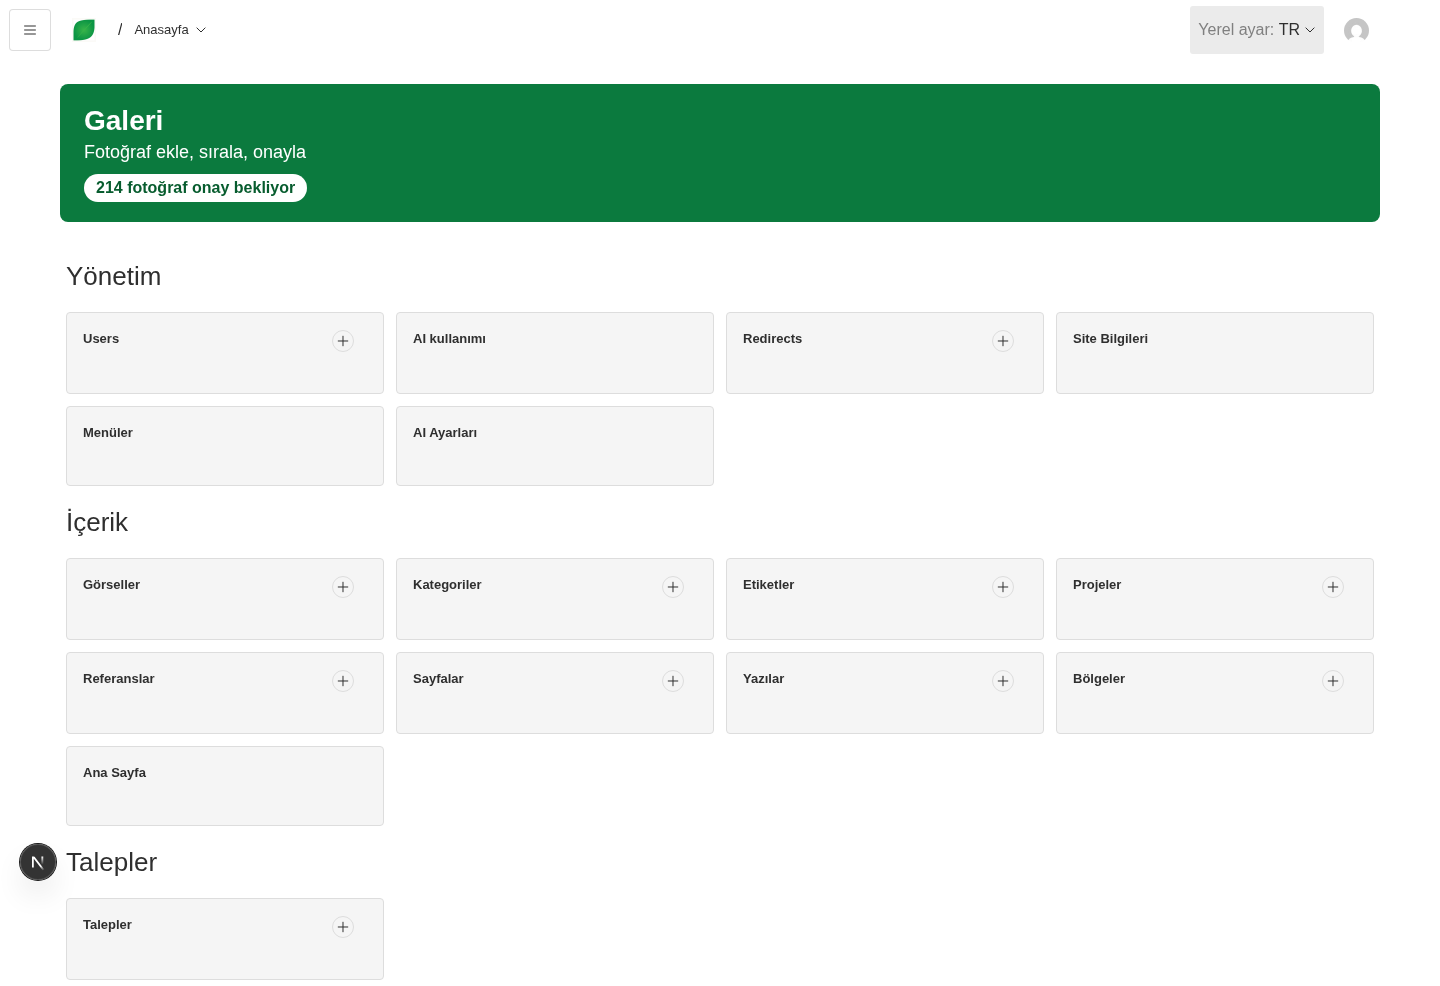
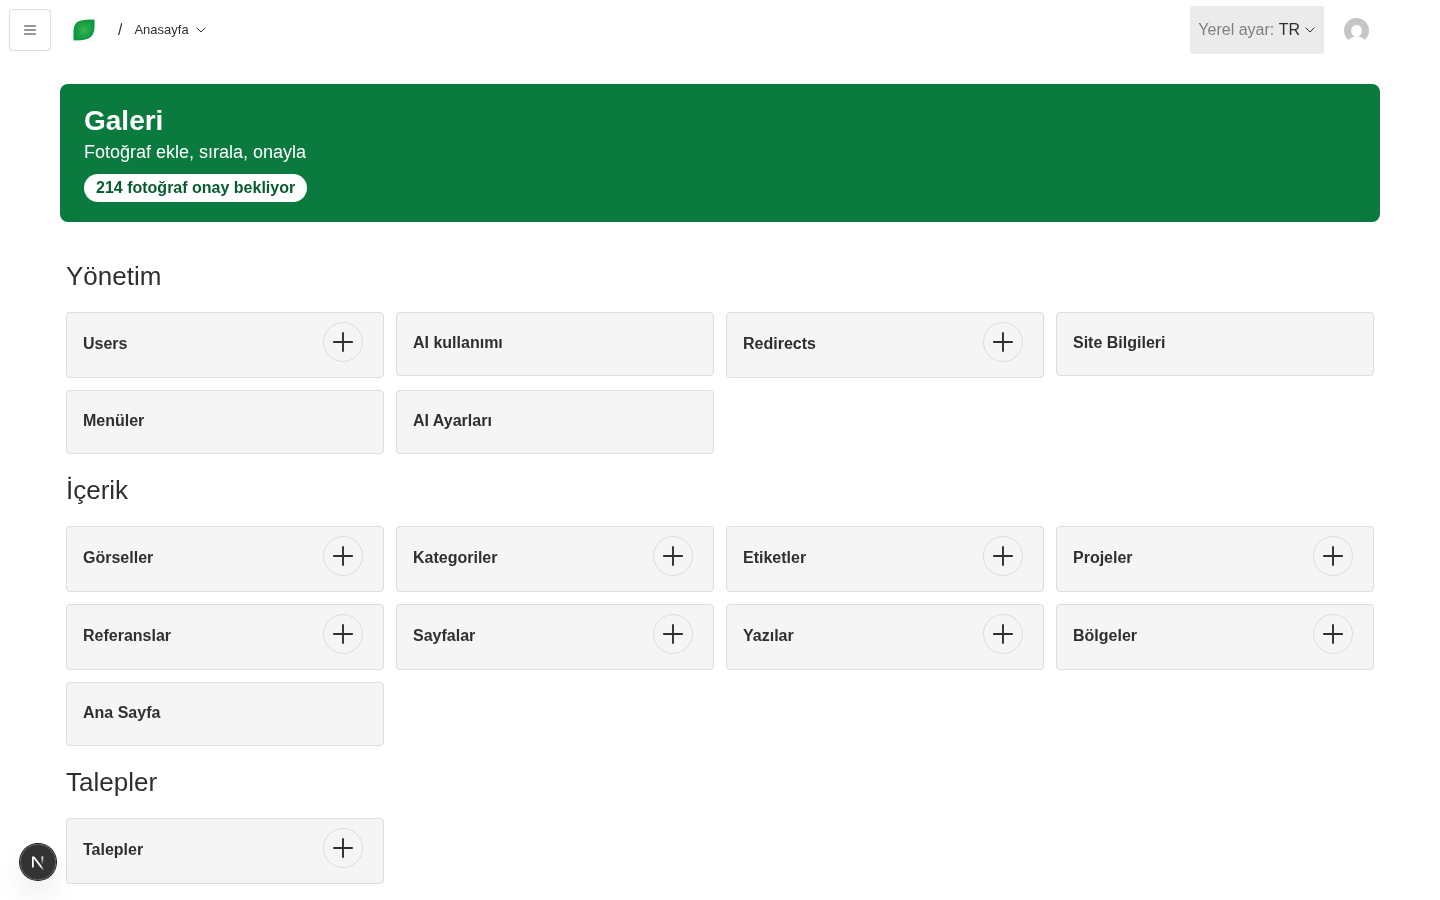
fix(admin): review fixes for Galeri reorder, dashboard cards, e2e (#157)
- move(): refresh order keys before the next move is allowed (sync ref guard),
  ignore a refresh for a category left meanwhile, keep the optimistic list if
  the refresh fails. "En sona" is off when the list is truncated.
- Dashboard cards: compact 64px rows, whole card is the link, 40px + icon in
  a 48px target.
- e2e: three photos with En başa / En sona and two fast ↓ taps checked
  against the saved order; editors don't see media/category cards; polled
  measurements; cleanup never deletes with an undefined category.

diff --git a/tests/e2e/admin-galeri.e2e.spec.ts b/tests/e2e/admin-galeri.e2e.spec.ts
@@ -7,7 +7,7 @@ import { login } from '../helpers/login'
 
 // #26: upload through the Galeri view, reorder with ↑, approve after adding Turkish alt text.
 // #157: "En sona al" in the Sırala list; Galeri opens on "Onay bekliyor" and an approved card stays in view.
-test('Galeri: upload two photos, move the second up, approve with alt text', async ({ browser }) => {
+test('Galeri: upload three photos, reorder (↑, En başa, En sona, fast ↓↓), approve with alt text', async ({ browser }) => {
   test.setTimeout(180_000)
   const payload = await getPayload({ config })
   const run = Date.now()
@@ -25,35 +25,55 @@ test('Galeri: upload two photos, move the second up, approve with alt text', asy
     await page.getByLabel('Kategori').selectOption({ label: `E2E Galeri ${run}` })
     await expect(page.getByText('Bu kategoride henüz fotoğraf yok.')).toBeVisible()
 
+    const [a, b, c] = ['birinci', 'ikinci', 'ucuncu'].map((n) => `${n}-${run}.webp`) as [string, string, string]
     await page.locator('input[type="file"]').setInputFiles([
       { name: `birinci-${run}.jpg`, mimeType: 'image/jpeg', buffer: await photo(160, 110, 60) },
       { name: `ikinci-${run}.jpg`, mimeType: 'image/jpeg', buffer: await photo(60, 110, 160) },
+      { name: `ucuncu-${run}.jpg`, mimeType: 'image/jpeg', buffer: await photo(60, 160, 110) },
     ])
-    await expect(page.getByText('2 fotoğraf yüklendi.')).toBeVisible({ timeout: 60_000 })
+    await expect(page.getByText('3 fotoğraf yüklendi.')).toBeVisible({ timeout: 90_000 })
     await expect(page.getByRole('button', { name: 'Onay bekleyenleri göster' })).toBeVisible()
 
     const names = page.locator('.galeri__card .galeri__name')
-    await expect(names).toHaveText([`birinci-${run}.webp`, `ikinci-${run}.webp`])
+    await expect(names).toHaveText([a, b, c])
     await expect(page.locator('.galeri__badge').first()).toHaveText('AI hazırlıyor…')
 
     const reordered = page.waitForResponse((r) => r.url().endsWith('/api/reorder') && r.ok())
-    await page.getByRole('button', { name: `ikinci-${run}.webp: yukarı taşı` }).click()
+    await page.getByRole('button', { name: `${b}: yukarı taşı` }).click()
     await reordered
-    await expect(names).toHaveText([`ikinci-${run}.webp`, `birinci-${run}.webp`])
+    await expect(names).toHaveText([b, a, c])
 
     // The order is persisted, and the category choice is remembered across reloads.
     await page.reload()
-    await expect(names).toHaveText([`ikinci-${run}.webp`, `birinci-${run}.webp`], { timeout: 30_000 })
-    await expect(page.getByRole('button', { name: 'Onay bekliyor 2' })).toHaveAttribute('aria-pressed', 'true')
+    await expect(names).toHaveText([b, a, c], { timeout: 30_000 })
+    await expect(page.getByRole('button', { name: 'Onay bekliyor 3' })).toHaveAttribute('aria-pressed', 'true')
 
-    await page.getByRole('button', { name: 'Tümü 2' }).click()
+    // Sırala: jump to the start and to the end. A move counts as done once its refresh is in (buttons enabled again).
+    const rows = page.locator('.galeri__row .galeri__name')
+    const settled = () => expect(page.locator('.galeri__row button[aria-disabled="true"]')).toHaveCount(4)
+    await page.getByRole('button', { name: 'Tümü 3' }).click()
     await page.getByRole('button', { name: 'Sırala', exact: true }).click()
-    const moved = page.waitForResponse((r) => r.url().endsWith('/api/reorder') && r.ok())
-    await page.getByRole('button', { name: `En sona al: ikinci-${run}.webp` }).click()
-    await moved
-    await expect(page.locator('.galeri__row .galeri__name')).toHaveText([`1. birinci-${run}.webp`, `2. ikinci-${run}.webp`])
+    await page.getByRole('button', { name: `En başa al: ${c}` }).click()
+    await expect(rows).toHaveText([`1. ${c}`, `2. ${b}`, `3. ${a}`])
+    await settled()
+    await page.getByRole('button', { name: `En sona al: ${c}` }).click()
+    await expect(rows).toHaveText([`1. ${b}`, `2. ${a}`, `3. ${c}`])
+    await settled()
+
+    // Two fast "↓" taps: the second lands while the first is saving (force skips Playwright's wait for enabled).
+    // Whatever the screen settles on must be what was saved.
+    const down = page.getByRole('button', { name: `${b}: aşağı taşı` })
+    await down.click()
+    await down.click({ force: true })
+    await settled()
+    const shown = await rows.allInnerTexts()
+    expect(shown).not.toEqual([`1. ${b}`, `2. ${a}`, `3. ${c}`])
+    await page.reload()
+    await page.getByRole('button', { name: 'Tümü 3' }).click()
+    await page.getByRole('button', { name: 'Sırala', exact: true }).click()
+    await expect(rows).toHaveText(shown)
     await page.getByRole('button', { name: 'Bitti' }).click()
-    await page.getByRole('button', { name: 'Onay bekliyor 2' }).click()
+    await page.getByRole('button', { name: 'Onay bekliyor 3' }).click()
 
     const first = page.locator('.galeri__card').first()
     await first.getByRole('button', { name: 'Onayla' }).click()
@@ -62,7 +82,7 @@ test('Galeri: upload two photos, move the second up, approve with alt text', asy
     await first.getByRole('button', { name: 'Kaydet ve onayla' }).click()
     await expect(first.locator('.galeri__badge')).toHaveText('Yayında')
     await expect(first.locator('.galeri__alt')).toHaveText('Mavi tonlarda ahşap deck örneği')
-    await expect(page.getByRole('button', { name: 'Onay bekliyor 1' })).toBeVisible()
+    await expect(page.getByRole('button', { name: 'Onay bekliyor 2' })).toBeVisible()
     // Docs screenshot only on demand (UPDATE_SCREENSHOTS=1) to avoid churn in normal runs.
     if (process.env.UPDATE_SCREENSHOTS) await page.screenshot({ path: 'docs/screens/admin-galeri-mobile.png', fullPage: true })
   } finally {

diff --git a/src/components/admin/GaleriClient.tsx b/src/components/admin/GaleriClient.tsx
@@ -87,6 +87,8 @@ export function GaleriClient({ categories, projects }: { categories: Option[]; p
   const [cardError, setCardError] = useState<Record<number, string>>({})
   const [busy, setBusy] = useState<number | null>(null)
   const [moving, setMoving] = useState(false)
+  // Read synchronously: a second tap can land before React re-renders with `moving` set.
+  const movingRef = useRef(false)
   const [filter, setFilter] = useState<StatusFilter>('all')
   // Photos changed under the current filter stay in view until the filter changes (no card vanishes on "Onayla").
   const [kept, setKept] = useState<ReadonlySet<number>>(new Set())
@@ -213,9 +215,10 @@ export function GaleriClient({ categories, projects }: { categories: Option[]; p
 
   async function move(from: number, to: number) {
     const r = reorder(items, from, to)
-    if (!r || moving || !category) return
+    if (!r || movingRef.current || !category) return
     const before = items
     setItems(r.next)
+    movingRef.current = true
     setMoving(true)
     const fail = (message: string) => {
       setItems(before)
@@ -244,12 +247,22 @@ export function GaleriClient({ categories, projects }: { categories: Option[]; p
       }
     } catch (e) {
       fail((e as Error).message)
+      movingRef.current = false
+      setMoving(false)
       return
+    }
+    // Saved. Fresh order keys arrive before the next move is allowed; the next move builds on them.
+    // A failed refresh keeps the optimistic list (the move itself is saved), and a refresh for a category
+    // the user has left since must not replace the one on screen.
+    try {
+      const fresh = await load(category)
+      if (categoryRef.current === category) setItems(fresh)
+    } catch {
+      // Stale keys only; the shown order is the saved one.
     } finally {
+      movingRef.current = false
       setMoving(false)
     }
-    // The move is saved; a failed refresh only leaves stale keys, so it must not revert the order.
-    load(category).then(setItems, () => undefined)
   }
 
   if (!categories.length)
@@ -266,6 +279,7 @@ export function GaleriClient({ categories, projects }: { categories: Option[]; p
   const activeQueue = queue.filter((e) => e.state !== 'done')
   const doneCount = queue.filter((e) => e.state === 'done').length
   const counts = statusCounts(items)
+  const truncated = isTruncated(items.length)
   const visible = items
     .map((m, i) => ({ m, i }))
     .filter(({ m }) => filter === 'all' || (m.status ?? 'pending') === filter || kept.has(m.id))
@@ -408,7 +422,10 @@ export function GaleriClient({ categories, projects }: { categories: Option[]; p
               Bitti
             </button>
           </div>
-          <p className="galeri__note">Fotoğraflar sitede bu sırayla görünür. Her değişiklik hemen kaydedilir.</p>
+          <p className="galeri__note">
+            Fotoğraflar sitede bu sırayla görünür. Her değişiklik hemen kaydedilir.
+            {truncated && ` Liste ilk ${MEDIA_LIMIT} fotoğrafı gösterdiği için “En sona” kapalı.`}
+          </p>
           <ol className="galeri__sortlist">
             {items.map((m, i) => {
               const label = nameOf(m)
@@ -436,7 +453,14 @@ export function GaleriClient({ categories, projects }: { categories: Option[]; p
                     <button type="button" className="galeri__btn galeri__btn--icon" aria-disabled={i === last || moving} onClick={() => void move(i, i + 1)} aria-label={`${label}: aşağı taşı`}>
                       ↓
                     </button>
-                    <button type="button" className="galeri__btn" aria-disabled={i === last || moving} onClick={() => void move(i, last)} aria-label={`En sona al: ${label}`}>
+                    <button
+                      type="button"
+                      className="galeri__btn"
+                      // Truncated list: its last row is not the category's last photo.
+                      aria-disabled={i === last || moving || truncated}
+                      onClick={() => !truncated && void move(i, last)}
+                      aria-label={`En sona al: ${label}`}
+                    >
                       En sona
                     </button>
                   </div>

diff --git a/tests/e2e/admin-tap-targets.e2e.spec.ts b/tests/e2e/admin-tap-targets.e2e.spec.ts
@@ -34,8 +34,7 @@ async function smallTargets(page: Page): Promise<string[]> {
 async function expectNoSmallTargets(page: Page, screen: string, { checkScroll = true } = {}) {
   // Let client components (react-select, Galeri cards) settle before measuring.
   await page.waitForLoadState('load')
-  await page.waitForTimeout(500)
-  expect(await smallTargets(page), `${screen}: targets under ${MIN}px`).toEqual([])
+  await expect.poll(() => smallTargets(page), { message: `${screen}: targets under ${MIN}px` }).toEqual([])
   if (checkScroll)
     expect(await page.evaluate(() => document.documentElement.scrollWidth - innerWidth), `${screen}: horizontal scroll`).toBeLessThanOrEqual(0)
 }
@@ -73,8 +72,11 @@ test.describe('admin tap targets', () => {
 
   test.afterAll(async () => {
     const payload = await getPayload({ config })
-    await payload.delete({ collection: 'media', where: { category: { equals: categoryId } } })
-    await payload.delete({ collection: 'categories', id: categoryId })
+    // Never delete with an undefined filter: if beforeAll failed early there is no category to clean up.
+    if (categoryId) {
+      await payload.delete({ collection: 'media', where: { category: { equals: categoryId } } })
+      await payload.delete({ collection: 'categories', id: categoryId })
+    }
     await payload.delete({ collection: 'users', where: { email: { in: users.map((u) => u.email) } } })
   })
 
@@ -92,6 +94,9 @@ test.describe('admin tap targets', () => {
         await login({ page: p, user })
 
         await expect(p.locator('.editor-home')).toBeVisible()
+        // Editors reach media and categories through Galeri only.
+        for (const slug of ['media', 'categories'])
+          await expect(p.locator(`#card-${slug}`)).toBeVisible({ visible: user.role === 'admin' })
         await expectNoSmallTargets(p, at('dashboard'))
         if (width < 769) {
           await p.locator('.app-header__mobile-nav-toggler').click()

diff --git a/src/app/(payload)/custom.scss b/src/app/(payload)/custom.scss
@@ -235,6 +235,24 @@ body {
   font-size: 14px;
 }
 
+/* Dashboard cards: compact rows (no empty body), title readable, the whole card is the link (.card__click overlay). */
+.collections__card-list .card {
+  align-items: center;
+  block-size: auto;
+  min-block-size: 64px;
+  padding-block: 8px;
+}
+
+.collections__card-list .card__title {
+  font-size: 16px;
+  line-height: 1.3;
+}
+
+.card__actions .btn__icon {
+  inline-size: 40px;
+  block-size: 40px;
+}
+
 /* Brand (admin.components.graphics). The lockup's grey "AHŞAP DEKORASYON" needs a light ground in dark mode. */
 .brand-logo {
   display: block;
